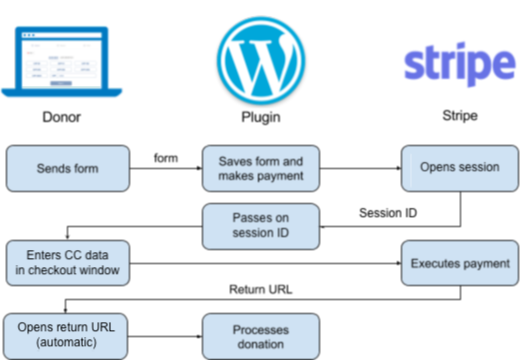
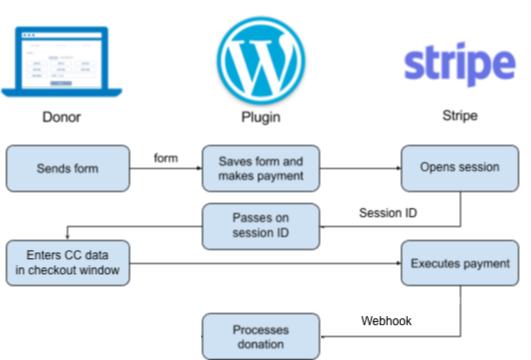
Add webhook support to Stripe

Changed region(s): [[0.0, 0.7639, 0.8738, 1.0]]

diff --git a/functions.php b/functions.php
@@ -521,6 +521,65 @@ function raise_get_form_data()
 }
 
 /**
+ * Sanitize donation
+ *
+ * @param array $donation
+ * @return array Sanitized donation
+ */
+function raise_sanitize_donation(array $donation) {
+    // Trim the data
+    $d = array_map('trim', $donation);
+    // Replace amount-other
+    if (!empty($d['amount_other'])) {
+        $d['amount'] = $d['amount_other'];
+    }
+    unset($d['amount_other']);
+    // Add tip to amount
+    if (is_numeric($d['amount'])) {
+        $amountInt      = (int)($d['amount'] * 100);
+        $tipInt         = (int)($d['tip_amount'] * 100);
+        $d['amountInt'] = $amountInt + $tipInt;
+        $d['amount']    = money_format('%i', $d['amountInt'] / 100);
+    } else {
+        throw new \Exception('Invalid amount');
+    }
+    return [
+        'form'                       => $d['form'],
+        'mode'                       => $d['mode'],
+        'url'                        => $_SERVER['HTTP_REFERER'],
+        'language'                   => substr($d['locale'], 0, 2),
+        'time'                       => date('c'),
+        'currency'                   => $d['currency'],
+        'amount'                     => $d['amount'],
+        'tip_amount'                 => $d['tip_amount'],
+        'tip_percentage'             => $d['tip_percentage'],
+        'frequency'                  => $d['frequency'],
+        'payment_provider'           => $d['payment_provider'],
+        'email'                      => $d['email'],
+        'name'                       => stripslashes($d['name']),
+        'purpose'                    => raise_get($d['purpose'], ''),
+        'address'                    => stripslashes(raise_get($d['address'], '')),
+        'zip'                        => raise_get($d['zip'], ''),
+        'city'                       => stripslashes(raise_get($d['city'], '')),
+        'country_code'               => raise_get($d['country_code'], ''),
+        'comment'                    => raise_get($d['comment'], ''),
+        'account'                    => raise_get($d['account'], ''),
+        'post_donation_instructions' => raise_get($d['post_donation_instructions'], ''),
+        'vendor_transaction_id'      => raise_get($d['vendor_transaction_id'], ''),
+        'vendor_subscription_id'     => raise_get($d['vendor_subscription_id'], ''),
+        'vendor_customer_id'         => raise_get($d['vendor_customer_id'], ''),
+        'g-recaptcha-response'       => raise_get($d['g-recaptcha-response'], ''),
+        'anonymous'                  => (bool) raise_get($d['anonymous'], false),
+        'mailinglist'                => (bool) raise_get($d['mailinglist'], false),
+        'tax_receipt'                => (bool) raise_get($d['tax_receipt'], false),
+        'share_data'                 => (bool) raise_get($d['share_data'], false),
+        'share_data_offered'         => (bool) raise_get($d['share_data_offered'], false),
+        'tip'                        => (bool) raise_get($d['tip'], false),
+        'tip_offered'                => (bool) raise_get($d['tip_offered'], false),
+    ];
+}
+
+/**
  * AJAX endpoint that creates redirect response in HTML (Stripe)
  *
  * @return string JSON response
@@ -1754,9 +1813,6 @@ function raise_prepare_stripe_donation(array $donation)
 
     \Stripe\Stripe::setApiKey($settings['secret_key']);
 
-    // Save doantion to session
-    raise_set_donation_data_to_session($donation, $reqId);
-
     // Add custom purpose label if purpose is defined
     $recipient    = __('Donation', 'raise');
     $purposeLabel = '';
@@ -1771,16 +1827,12 @@ function raise_prepare_stripe_donation(array $donation)
     }
 
     // Session params
-    $clientRef     = md5(mt_rand());
     $sessionParams = [
         'customer_email'       => $donation['email'],
         'payment_method_types' => ['card'],
         'success_url'          => $returnUrl,
         'cancel_url'           => $cancelUrl,
-        'client_reference_id'  => $clientRef,
     ];
-    // Add client reference ID
-    $donation['vendor_customer_id'] = $clientRef;
 
     // Make charge/subscription
     $amountInt = floor($donation['amount'] * 100); // cents
@@ -1802,10 +1854,14 @@ function raise_prepare_stripe_donation(array $donation)
             'amount'   => $amountInt,
             'currency' => $donation['currency'],
             'quantity' => 1,
+            'images'   => [get_option('raise_logo')],
         ]];
     }
 
     $session = \Stripe\Checkout\Session::create($sessionParams);
+
+    // Save donation as transient for 2h
+    set_site_transient('raise_stripe_' . $session->id, raise_sanitize_donation($donation), 60*60*2);
 
     $script = 'var stripe = Stripe("' . $settings['public_key'] . '");
       stripe.redirectToCheckout({
@@ -1814,10 +1870,11 @@ function raise_prepare_stripe_donation(array $donation)
         alert(result.error.message);
       });';
     
-    return '<!doctype html><html><head>
+    return '<!doctype html>
+            <html><head>
             <meta charset="utf-8"><title>Forwarding to Stripe...</title>
-            <script src="https://js.stripe.com/v3/"></script>
-        </head><body><script>' . $script . '</script></body></html>';
+            <script src="https://js.stripe.com/v3/"></script></head>
+            <body><script>' . $script . '</script></body></html>';
 }
 
 function raise_cancel_payment()
@@ -1830,33 +1887,95 @@ function raise_cancel_payment()
 }
 
 /**
- * AJAX endpoint for logging Stripe donations.
- * Takes user data from session and triggers the web hooks.
+ * AJAX endpoint for finish Stripe donation flow.
+ * User is forwarded here after finishing donation.
  *
  * @return string HTML with script that terminates the PayPal flow and shows the thank you step
  */
-function raise_log_stripe_donation()
+function raise_finish_stripe_donation_flow()
+{
+    // Just close popup and show confirmation
+    die('<!doctype html>
+         <html><head><meta charset="utf-8"><title>Closing flow...</title></head>
+         <body><script>var mainWindow = (window == top) ? /* mobile */ opener : /* desktop */ parent; mainWindow.showConfirmation("stripe"); mainWindow.raisePopup.close();</script></body></html>');
+}
+
+/**
+ * Log Stripe donation
+ * Endpoint for webhooks from Stripe
+ *
+ * @param WP_REST_Request $request
+ * @return WP_REST_Response|WP_Error
+ */
+function raise_log_stripe_donation(WP_REST_Request $request)
 {
     try {
-        // Get donation from session
-        $donation = raise_get_donation_from_session();
+        $providedSignature = $request->get_header('stripe_signature');
+        if (!$providedSignature) {
+            throw new \Exception('Missing stripe-signature header');
+        }
 
-        // Verify session and purge reqId from session
-        raise_verify_session();
+        // Get donation
+        $sessionId = raise_get($request['data']['object']['id'], '');
+        $donation  = get_site_transient('raise_stripe_' . $sessionId);
+        if (!$donation) {
+            // Probably donation was made on different WordPress instance
+            $response = new WP_REST_Response(['success' => $sessionId]);
+            $response->set_status(202);
+            return $response;
+        }
+
+        // Check hash to make sure it comes from Stripe
+        $settings      = raise_get_payment_provider_account_settings('stripe', $donation);
+        $signingSecret = raise_get($settings['signing_secret'], '');
+        \Stripe\Stripe::setApiKey($settings['secret_key']);
+
+        // Verify signature
+        $payload = @file_get_contents('php://input');
+        $event   = \Stripe\Webhook::constructEvent(
+            $payload, $providedSignature, $signingSecret
+        );
+
+        // Make sure it's the checkout.session.completed event
+        if ($event->type !== 'checkout.session.completed') {
+            // Irrelevant event
+            $response = new WP_REST_Response(['success' => false]);
+            $response->set_status(202);
+            return $response;
+        }
+
+        // Set some vendor IDs
+        $customerId = raise_get($request['data']['object']['customer']);
+        $donation['vendor_customer_id'] = $customerId;
+        if ($donation['frequency'] === 'once') {
+            // Get charge ID
+            $paymentIntent = \Stripe\PaymentIntent::retrieve($event->data->object->payment_intent);
+            $charges       = $paymentIntent->charges->data;
+            if ($charge = reset($charges)) {
+                $donation['vendor_transaction_id'] = $charge->id;
+            }
+        } else {
+            // Get subscription ID
+            $donation['vendor_subscription_id'] = raise_get($request['data']['object']['subscription']);
+        }
 
         // Do post donation actions
         raise_do_post_donation_actions($donation);
 
-        // Make script for closing popup
-        $script = "var mainWindow = (window == top) ? /* mobile */ opener : /* desktop */ parent; mainWindow.showConfirmation('stripe'); mainWindow.raisePopup.close();";
-    } catch (\Exception $ex) {
-        $script = "var mainWindow = (window == top) ? /* mobile */ opener : /* desktop */ parent; alert('" . $ex->getMessage() . "'); mainWindow.raisePopup.close();";
-    }
+        // Make response
+        $response = new WP_REST_Response(['success' => true]);
+        $response->set_status(201);
 
-    // Die and send script to close flow
-    die('<!doctype html>
-         <html><head><meta charset="utf-8"><title>Closing flow...</title></head>
-         <body><script>' . $script . '</script></body></html>');
+        // Delete transient
+        // delete_site_transient('raise_stripe_' . $sessionId);
+
+        return $response;
+    } catch (\Exception $ex) {
+        $response = new WP_REST_Response(['success' => false, 'message' => $ex->getMessage()]);
+        $response->set_status(400);
+
+        return $response;
+    }
 }
 
 /**

diff --git a/raise.php b/raise.php
@@ -59,8 +59,8 @@ add_action("wp_ajax_nopriv_process_banktransfer", "raise_process_banktransfer");
 add_action("wp_ajax_process_banktransfer", "raise_process_banktransfer");
 
 // Log Stripe donation
-add_action("wp_ajax_nopriv_stripe_log", "raise_log_stripe_donation");
-add_action("wp_ajax_stripe_log", "raise_log_stripe_donation");
+add_action("wp_ajax_nopriv_stripe_log", "raise_finish_stripe_donation_flow");
+add_action("wp_ajax_stripe_log", "raise_finish_stripe_donation_flow");
 
 // Log Stripe donation
 add_action("wp_ajax_nopriv_cancel_payment", "raise_cancel_payment");
@@ -197,17 +197,15 @@ function raise_redefine_locale($locale) {
     return $locale;
 }
 
-// Set attribute data-version-4 for PayPal Checkout.js
-// Enable when data-version-5 is out
-/*add_filter('clean_url', 'unclean_url', 10, 3);
-function unclean_url($good_protocol_url, $original_url, $_context){
-    if (false !== strpos($original_url, '?data-version-4')){
-        remove_filter('clean_url', 'unclean_url', 10, 3);
-        $url_parts = parse_url($good_protocol_url);
-        return '//' . $url_parts['host'] . $url_parts['path'] . "' data-version-4 charset='UTF-8";
-    }
-    return $good_protocol_url;
-}*/
+/**
+ * Endpoint for Stripe webhook
+ */
+add_action('rest_api_init', function () {
+    register_rest_route('raise/v1', '/stripe/log', [
+        'methods'  => 'POST',
+        'callback' => 'raise_log_stripe_donation',
+    ]);
+});
 
 /**
  * Returns current plugin version

diff --git a/README.md b/README.md
@@ -525,7 +525,7 @@ To match bank transfers with registrations, you can declare a reference number p
 
 
 ### Stripe
-Requires `secret_key` and `public_key`. The organisation logo used in the checkout modal can be configured on the settings page.
+Requires `secret_key`, `public_key` and `signing_secret` (see `Developers` page in dashboard).
 
 ```json
 "stripe": {
@@ -533,17 +533,23 @@ Requires `secret_key` and `public_key`. The organisation logo used in the checko
   "tooltip": "Something you want the donor to know",
   "live": {
     "secret_key": "sk_live_mykey",
-    "public_key": "pk_live_mykey"
+    "public_key": "pk_live_mykey",
+    "signing_secret": "whsec_mysecret"
   },
   "sandbox": {
     "secret_key": "sk_test_mykey",
-    "public_key": "pk_test_mykey"
+    "public_key": "pk_test_mykey",
+    "signing_secret": "whsec_mysecret"
   }
 }
 ```
 
+Note: The Raise webhooks for logging and adding donors to mailinglists are only triggered if you also set up a webhook in your Stripe dashboard. Point it to https://your-site.com/wp-json/raise/v1/stripe/log. Make sure it only fires on the `checkout.session.completed` event and copy the signing secret correctly into your Raise configuration.
+
 Additional webhook data:
-- `vendor_customer_id`: Client Reference ID
+- `vendor_transaction_id`: Stripe charge ID (for one-time donations)
+- `vendor_subscription_id`: Stripe subscription ID (for recurring donations)
+- `vendor_customer_id`: Stripe customer ID
 
 ![Stripe flow](/doc/images/stripe_flow.png?raw=true)
 
